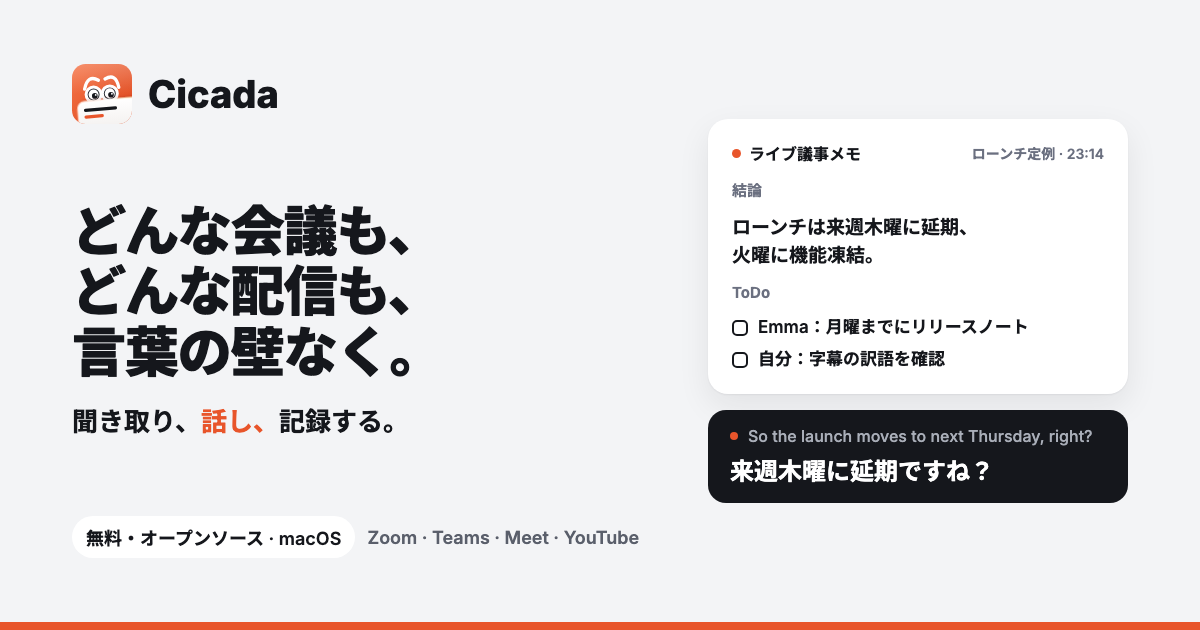
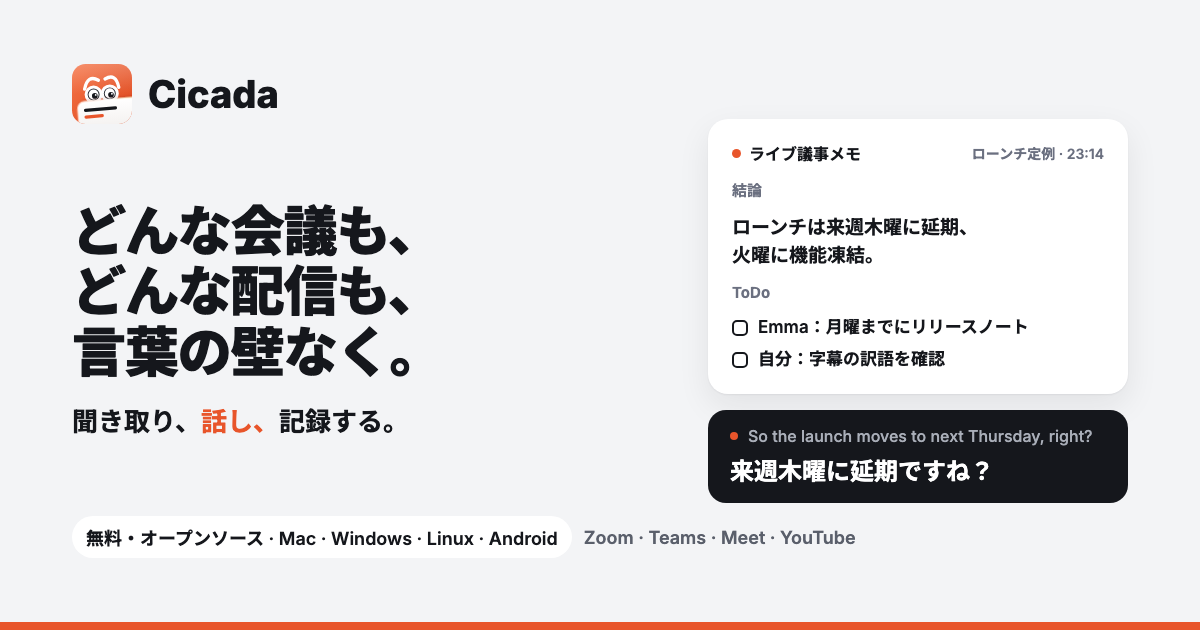
fix(site): the share cards name Mac, Windows, Linux and Android instead of macOS alone

Changed region(s): [[0.2158, 0.8444, 0.7092, 0.8746]]

diff --git a/scripts/site-og.html b/scripts/site-og.html
@@ -61,25 +61,25 @@ body { word-break: keep-all; } /* Korean wraps at spaces, not mid-word */
 const CARDS = {
   zh: { lang: "zh-CN", cjk: "'Noto Sans SC', 'PingFang SC'", name: "知了", en: "Cicada",
     slogan: "任何会议、任何直播，<br>没有语言障碍。", sub: ["听得懂，", "说得出", "，记得住。"],
-    pill: "免费开源 · macOS", apps: "Zoom · Teams · 飞书 · 腾讯会议 · YouTube",
+    pill: "免费开源 · Mac · Windows · Linux · Android", apps: "Zoom · Teams · 飞书 · 腾讯会议 · YouTube",
     notes: "实时纪要", meeting: "发布同步会 · 23:14", decisionLabel: "结论", decision: "发布挪到下周四，周二前冻结功能。",
     todoLabel: "待办", todos: ["Emma：周一前出发布说明", "我：确认日文字幕"],
     heard: "So the launch moves to next Thursday, right?", said: "所以发布挪到下周四了，对吧？" },
   en: { lang: "en", cjk: "'Noto Sans SC'", name: "Cicada", en: "", slogan: "Any call, any stream,<br>no language barrier.", size: "54px",
     sub: ["Understand. ", "Speak up.", " Remember."],
-    pill: "Free · Open source · macOS", apps: "Zoom · Teams · Meet · YouTube",
+    pill: "Free · Open source · Mac · Windows · Linux · Android", apps: "Zoom · Teams · Meet · YouTube",
     notes: "Live notes", meeting: "Launch sync · 23:14", decisionLabel: "Conclusions", decision: "Launch moves to next Thursday; feature freeze by Tuesday.",
     todoLabel: "To-dos", todos: ["Lin: release notes by Monday", "Me: check the Japanese subtitles"],
     heard: "所以发布挪到下周四了，对吧？", said: "So the launch moves to next Thursday?" },
   ja: { lang: "ja", cjk: "'Noto Sans JP'", name: "Cicada", en: "", slogan: "どんな会議も、<br>どんな配信も、<br>言葉の壁なく。", size: "54px",
     sub: ["聞き取り、", "話し、", "記録する。"],
-    pill: "無料・オープンソース · macOS", apps: "Zoom · Teams · Meet · YouTube",
+    pill: "無料・オープンソース · Mac · Windows · Linux · Android", apps: "Zoom · Teams · Meet · YouTube",
     notes: "ライブ議事メモ", meeting: "ローンチ定例 · 23:14", decisionLabel: "結論", decision: "ローンチは来週木曜に延期、火曜に機能凍結。",
     todoLabel: "ToDo", todos: ["Emma：月曜までにリリースノート", "自分：字幕の訳語を確認"],
     heard: "So the launch moves to next Thursday, right?", said: "来週木曜に延期ですね？" },
   ko: { lang: "ko", cjk: "'Noto Sans KR'", name: "Cicada", en: "", slogan: "어떤 회의도,<br>어떤 방송도<br>언어 장벽 없이", size: "54px",
     sub: ["알아듣고, ", "말하고,", " 기록합니다"],
-    pill: "무료 오픈 소스 · macOS", apps: "Zoom · Teams · Meet · YouTube",
+    pill: "무료 오픈 소스 · Mac · Windows · Linux · Android", apps: "Zoom · Teams · Meet · YouTube",
     notes: "실시간 회의록", meeting: "출시 회의 · 23:14", decisionLabel: "결론", decision: "출시는 다음 주 목요일, 화요일까지 기능 동결.",
     todoLabel: "할 일", todos: ["Emma: 월요일까지 릴리스 노트", "나: 자막 용어 확인"],
     heard: "So the launch moves to next Thursday, right?", said: "출시가 다음 주 목요일로 미뤄지죠?" },
